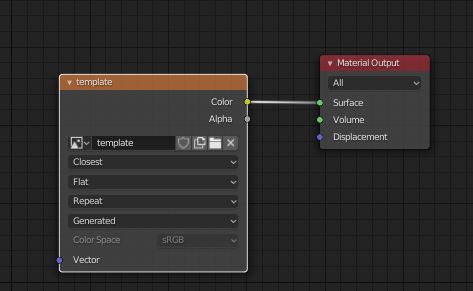
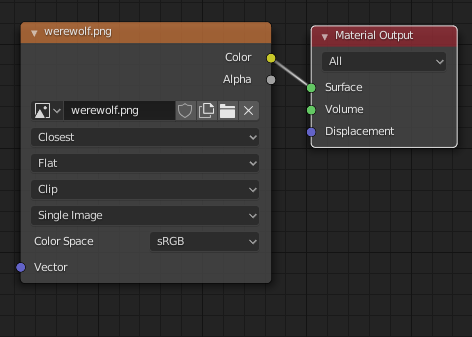
Deployed 1d07a29 with MkDocs version: 1.1.2

diff --git a/user_manual/panels/index.html b/user_manual/panels/index.html
@@ -130,12 +130,39 @@ the plugin.</p>
 <p><strong>Usage</strong></p>
 <ul>
 <li><strong>Toggles mc_mirror</strong> - Toggles <code>mc_mirror</code> property for selected object.
-  Objects that have <code>mc_mirror</code> property create cubes with mirrored UV.</li>
+  Objects that have <code>mc_mirror</code> property will have different UV mapping
+  than the objects without it when you run the <code>Set bedrock UVs</code> operator.</li>
 <li><strong>Set mc_uv_group</strong> - Groups selected object together which affects the
   UV-mapping. Object assigned to the same <code>mc_uv_group</code> is mapped to the same
   spot on the texture if they have the same dimensions.</li>
+</ul>
+<div class="admonition note">
+<p class="admonition-title">Note</p>
+<p>Sometimes when you want to get really compact texture its good to select
+all of the abject and assign them to the same mc_uv_group before running
+the <code>Set bedrock UVs</code> operator. The cubes with the same shape will get
+the same UV (for example if you have symetrical humanoid model than its
+left and right hand will be mapped to the same UV texture space).</p>
+</div>
+<ul>
 <li><strong>Toggle mc_is_bone</strong> - Toggles <code>mc_is_bone</code> property for selected objects.
-  object with this property are exported as bones in the Minecraft model.</li>
+  object with this property are always exported as bones in the Minecraft
+  model. Mcblend usually tries to export most of the meshes as cubes and group
+  them together in some parent object which will become a bone. If you want to
+  mark certain cube as an independent bone than you need to use <code>mc_is_bone</code>
+  property.</li>
+</ul>
+<div class="admonition note">
+<p class="admonition-title">Note</p>
+<p>The best way of using Mcblend is to have one rig for the model parenting
+the meshes to bones of that rig. This allows you to take the advantage
+of useful features like inverse kinematics and also creates a model in
+which its really easy to distinguish which blender object becames what
+in minecraft model. That is - bones will be translated into minecraft
+bones and meshes into cubes. If you add some empties without children
+objects they will become the locators.</p>
+</div>
+<ul>
 <li><strong>Set mc_inflate</strong> - Set the <code>mc_inflate</code> vale for selected objects. This is
   equivalent to setting the inflate value in the Minecraft model. Running this
   operator opens a panel in the bottom left corner of the 3D viewport. You
@@ -146,13 +173,18 @@ the plugin.</p>
 <li><strong>Round dimensions</strong> - Rounds the dimensions of the object to integers.
   This operator is useful for aviding problems with UV-mapping.</li>
 </ul>
+<div class="admonition note">
+<p class="admonition-title">Note</p>
+<p>Its a good habit to always run this operator before exporting the model.
+Models with cubes with non-integer sizes ussualy have issues with UV
+mapping and don't look good. If you want to so some slight tweaks to the
+size of a cube you should use the <code>Set mc_inflate</code> operator.</p>
+</div>
 <h2 id="set-bedrock-uvs-panel">Set bedrock UVs panel</h2>
 <p>This panel is used for creating UV-mapping for the model and generating
 template textures.</p>
 <p><img alt="" src="../../img/set_bedrock_uvs_panel.png" /></p>
 <p><strong>Usage</strong></p>
-<p>By default all of the cubes in the model have the [0, 0] UV-mapping.
-The UV mapping values of each object are stored in <code>mc_uv</code> custom property.</p>
 <p>To perform the UV-mapping fill in the form and press "Set Minecraft
 UVs"</p>
 <ul>
@@ -160,24 +192,31 @@ UVs"</p>
 <li><strong>Texture height</strong> - the texture height property of the Minecraft model.
   If you sent this property to 0 the texture height will be selected
   automatically to fit all textures as tight as possible.</li>
-<li><strong>Move existing mcUv mappings</strong> - this checkbox decides if the cubes that
-  already have assigned UV-mapping values can be moved.</li>
-<li><strong>Move blender UV mappings</strong> - this checkbox decides if blender objects
-  should have their UV-mapping moved to match the Minecraft model.</li>
-<li><strong>Remove old UV maps</strong> - objects in blender can have multiple UV maps but
-  only one of them is visible. Ticking this box causes that old UV-maps are
-  removed when the new one is created.</li>
 <li><strong>Template resolution</strong> - Sets the resolution of the template texture. If you
   set this to 0 then the template texture won't be created. This value
   describes how many pixels on the image is represented by one texture_widht or
   texture_height unit in the model definition. The value 1 gives the standard
   Minecraft texture resolution. Higher values can be used to create "HD"
   textures.</li>
-<li><strong>Set Minecraft UVs</strong> button runs the operator which plans the UV-mapping and
-  optionally creates the template texture.</li>
 </ul>
+<div class="admonition note">
+<p class="admonition-title">Note</p>
+<p>After generating the UV mapping you can still go to the UV editor and
+move everything to your liking. This operator tries to layout the
+UVs of the selected objects on the texture space using the basic
+non-per-face minecraft UV-mapping. If you move the UV in such way that it
+will be impossible to map it in standard minecraft UV-mapping way than
+mcblend will detect that and use per-face UV mapping. Also if you manually
+arrange the shape of the UV to per-face UV-mapping shape than Mcblend will
+detect that and export the model in "minecrafty" way of mapping the UV.
+Don't move individual vertices of the faces on the UV unless you know what
+you're doing. The faces on the UV must remain rectangles or the UV of the
+exported model may have some unexpected shapes.</p>
+</div>
 <h2 id="export-bedrock-model-panel">Export bedrock model panel</h2>
-<p>This panel is used for exporting the models.</p>
+<p>This panel is used for exporting the models. You can set here the name
+and visible bounds of the model. Exported model will automatically add
+the <code>geometry.</code> prefix so you don't need to do that.</p>
 <p><img alt="" src="../../img/export_model_panel.png" /></p>
 <p><strong>Usage</strong></p>
 <ol>
@@ -191,23 +230,41 @@ UVs"</p>
 <p><strong>Usage</strong></p>
 <ol>
 <li>Select all of the objects to export.</li>
-<li>Insert the name of the animation.</li>
-<li>If you want to loop the animation select the "loop" checkbox.</li>
-<li>If you want to use the <code>anim_time_update</code> property of Minecraft animation
-  insert its value to a proper text field. You can leave it blank if you don't
-  want to use it.</li>
-<li>Press the "Export animation" button.</li>
+<li>Fill in the form with the information about the animation.</li>
+<li>
+<p>Press the "Export animation" button.</p>
+</li>
+<li>
+<p><strong>Name</strong> - the name of the animation.</p>
+</li>
+<li><strong>Loop</strong> - if true than the loop property of the animation is also set
+  to true.</li>
+<li><strong>Current frame only</strong> - instead of exporting animation exports the
+  current frame as looped "pose animation".</li>
+<li><strong>anim_time_update</strong> - this is copied to "anim_time_update" property
+  of the minecraft animtion. If you leave this blank the the animation
+  won't use the anim_time_update property.</li>
 </ol>
+<div class="admonition note">
+<p class="admonition-title">Note</p>
+<p>The time of the animation is determined by the time of animation
+that you can set in the timeline. The animations should always start
+at frame 1. Frame 0 should have the model in the reset pose.</p>
+</div>
 <h2 id="import-bedrock-model-panel">Import bedrock model panel</h2>
 <p>This panel is used for importing bedrock models from JSON files.</p>
 <p><img alt="" src="../../img/import_model_panel.png" /></p>
 <p><strong>Usage</strong></p>
 <p>Press the button and use file explorer to find the model you want to import.
 There is additional property in the file explorer which allows you to specify
-the name of the geometry you want to import. Only geometries with <code>.geometry</code>
+the name of the geometry you want to import. Only geometries with <code>geometry.</code>
 prefix in the name are supported. You don't have to write the prefix (it's
 added automatically to the name). If you leave this field empty only the
 first model from the list of geometries will be imported.</p>
+<p>The "Replace bones with empties" changes the way of importing the model.
+If check the box the imported model will use empties instead of armature
+and bones. Both ways of importing model represent the same thing in
+minecraft according to the <a href="../conversion_rules/">conversion rules</a>.</p>
 <p><img alt="" src="../../img/import_model_file_explorer.png" /></p></div>
             </div>
         </div>
@@ -237,7 +294,7 @@ first model from the list of geometries will be imported.</p>
                 </p>
                 <form>
                     <div class="form-group">
-                        <input type="text" class="form-control" placeholder="Search..." id="mkdocs-search-query" title="Type search term here">
+                        <input type="search" class="form-control" placeholder="Search..." id="mkdocs-search-query" title="Type search term here">
                     </div>
                 </form>
                 <div id="mkdocs-search-results"></div>

diff --git a/user_manual/basics/index.html b/user_manual/basics/index.html
@@ -128,16 +128,20 @@ further in the user manual in <a href="../panels/">panels</a> section.</p>
 <h3 id="cuboids-only">Cuboids only</h3>
 <p>Minecraft bedrock edition models support only cuboids (unless you use an
 experimental feature which is not supported yet). You cannot use other
-shapes for your model. Mcblend uses bounding boxes to create cuboids for
-the exported model.</p>
+shapes for your model. Mcblend uses bounding boxes to create cuboids from
+meshes for the exported model. Every cube in a model must be a separate
+mesh. Ideally the mesh should have exactly the same shape as it's bounding box.
+Meshes with other shapes will be aproximated to the bounding box shape or if
+that fails the whole model won't be exported.</p>
 <div class="admonition note">
 <p class="admonition-title">Note</p>
-<p>The best way to avoid problems with invalid meshes is to always use
-blenders "Object mode" for editing the model. Additionally you can enable
-drawing the bounding box in object
+<p>The best way to avoid problems with invalid meshes is to always use the
+"Object mode" for editing the model and always scale the cuboids in their
+local space.</p>
+<p>Additionally you can enable drawing the bounding box in object
 <code>Object properties -&gt; Viewport display -&gt; Bounds</code></p>
 </div>
-<h3 id="wide-angles-in-rotations">Wide angles in rotations</h3>
+<h3 id="wide-angles-in-animations">Wide angles in animations</h3>
 <p>Blender supports multiple rotation modes and uses different types of rotation
 for different kinds of objects. For example rotations of bones in armatures
 use quaternions but meshes use Euler (XYZ) angles. Additionally users can
@@ -148,11 +152,11 @@ direct way to use the Minecraft coordinates system in Blender.</p>
 Internally everything is converted into quaternions and then into Minecraft
 coordinate system when it's needed. The design choice of using quaternions
 internally was motivated by the fact that quaternions help avoiding some
-computation errors. Unfortunately, Quaternions are number system which has
-unique representation for every rotation so you can't distinguish full turn
-from no turn at all.</p>
+computation errors. Unfortunately, Quaternions number system has only one
+unique representation for every rotation orientation so you can't distinguish
+full turn from no turn at all (0° = 360°).</p>
 <p>The consequence of choosing quaternions is that it's impossible to have
-rotation wider than 180 degrees between two keyframes. When an animation is
+rotation wider than 180° between two keyframes. When an animation is
 exported Mcblend translates quaternions into Euler angles and picks the
 rotation which requires as little movement as possible to end up in a new pose.</p>
 <div class="admonition note">
@@ -164,7 +168,7 @@ that don't look right.</p>
 <p>The addon does not allow the usage of names that have dots in it. Everything
 after the first dot in the name of the object is ignored during the conversion.
 You can use dots in the names of the objects which aren't converted into bones
-for the Minecraft model. Conversion rules are described in the
+in exported Minecraft model. Conversion rules are described in the
 <a href="../conversion_rules/">next</a> section of the user manual.</p>
 <h2 id="custom-properties">Custom properties</h2>
 <p>Mcblend uses custom object properties to store some data about the Minecraft
@@ -172,10 +176,14 @@ model:</p>
 <ul>
 <li><code>mc_uv_group</code> - used to group cubes with the same width, depth and height to
   assign same UV-mapping to them.</li>
-<li><code>mc_uv</code> - U and V value of Minecraft UV-mapping.</li>
-<li><code>mc_is_bone</code> - marks an object as a Minecraft bone.</li>
+<li><code>mc_is_bone</code> - marks an object as a Minecraft bone (it's not necessary in
+  most cases).</li>
 <li><code>mc_inflate</code> - the "inflate" value of cube in the Minecraft model.</li>
-<li><code>mc_mirror</code> - marks that the object has the "mirror" property set to true.</li>
+<li><code>mc_mirror</code> - marks that the object has the "mirror" property set to true.
+  This is used for generating the UV. If you manually map the UV in such way
+  that the it has the same shape as mirrored UV of a cube in minecraft model
+  than Mcblend will automatically detect that and add the mirror property to
+  the exported model.</li>
 </ul>
 <p>You can view these properties in <code>Object properties -&gt; Custom properties</code></p>
 <p><img alt="" src="../../img/custom_properties.png" /></p></div>
@@ -207,7 +215,7 @@ model:</p>
                 </p>
                 <form>
                     <div class="form-group">
-                        <input type="text" class="form-control" placeholder="Search..." id="mkdocs-search-query" title="Type search term here">
+                        <input type="search" class="form-control" placeholder="Search..." id="mkdocs-search-query" title="Type search term here">
                     </div>
                 </form>
                 <div id="mkdocs-search-results"></div>

diff --git a/user_manual/tips/index.html b/user_manual/tips/index.html
@@ -166,8 +166,8 @@ Remember to change the "Template resolution" setting a to value greater than
 <p><img alt="" src="../../img/shading_tab.png" /></p>
 <p><strong>3.</strong> Remove the <code>Principled BSDF</code> node and replace it with <code>Image Texture</code> node
 (<code>SHIFT + A</code> and search "Image Texture"). Connect the node to material output
-just like on the image. Set interpolation setting to "Closest" and choose your
-texture under the image setting.</p>
+just like on the image. Set interpolation setting to "Closest", the third
+setting to "Clip"  and choose your to texture under the image setting.</p>
 <p><img alt="" src="../../img/nodes.png" /></p>
 <p><strong>4.</strong> You don't have to create new material for every object. You can
 assign the material you use to other objects in your model. Select all of your
@@ -175,6 +175,11 @@ objects and make sure that the object that uses your material is active.
 Go to <code>Material Properties</code> right click on the material and select "Copy to
 selected".</p>
 <p><img alt="" src="../../img/copy_material_to_selected.png" /></p>
+<p>If you want to have a material that supports transparency than the nodes in
+the shading editor will need to have more complicated layout:</p>
+<p><img alt="" src="../../img/nodes_advanced.png" /></p>
+<p>You will also have to enable the transparency settings in the material configuration:</p>
+<p><img alt="" src="../../img/transparency_setting.png" /></p>
 <h2 id="multiple-animations">Multiple animations</h2>
 <p>If you want to have multiple animations in your project you can copy the scene
 with your finished model and animate it there. Every scene has its
@@ -227,7 +232,7 @@ pressing <code>CTRL + F2</code> (default key-bind setting).</p></div>
                 </p>
                 <form>
                     <div class="form-group">
-                        <input type="text" class="form-control" placeholder="Search..." id="mkdocs-search-query" title="Type search term here">
+                        <input type="search" class="form-control" placeholder="Search..." id="mkdocs-search-query" title="Type search term here">
                     </div>
                 </form>
                 <div id="mkdocs-search-results"></div>

diff --git a/index.html b/index.html
@@ -121,13 +121,12 @@
                     <div class="col-md-9" role="main">
 
 <h1 id="overview">Overview</h1>
-<p>Blender addon for working with Minecraft models.</p>
+<p>Blender addon for working with Minecraft Bedrock Edition models.</p>
 <h2 id="features">Features</h2>
 <ul>
 <li>Exporting models for Minecraft bedrock edition. Custom Minecraft model
   properties like <code>mirror</code>, <code>inflate</code> or <code>locator</code> are supported.</li>
-<li>Exporting animations for Minecraft bedrock edition. Support for Minecraft
-  property <code>anim_time_update</code>.</li>
+<li>Exporting keyframe animations for Minecraft bedrock edition. Support for Minecraft property <code>anim_time_update</code>.</li>
 <li>Importing models from Minecraft bedrock edition.</li>
 <li>Generating the UV maps and the template textures.</li>
 <li>Easy way to create animations that would be tedious to do thanks to
@@ -152,8 +151,7 @@ page: <a href="https://github.com/Nusiq/mcblend/releases">https://github.com/Nus
 </ol>
 <h1 id="more">More</h1>
 <p>You can learn about the features of the project from the
-<a href="./user_manual/basics">user manual</a> if you want to expand this project
-read the <a href="./code_documentation">code documentation</a>.</p></div>
+<a href="./user_manual/basics">user manual</a>.</p></div>
             </div>
         </div>
 
@@ -182,7 +180,7 @@ read the <a href="./code_documentation">code documentation</a>.</p></div>
                 </p>
                 <form>
                     <div class="form-group">
-                        <input type="text" class="form-control" placeholder="Search..." id="mkdocs-search-query" title="Type search term here">
+                        <input type="search" class="form-control" placeholder="Search..." id="mkdocs-search-query" title="Type search term here">
                     </div>
                 </form>
                 <div id="mkdocs-search-results"></div>
@@ -236,6 +234,6 @@ read the <a href="./code_documentation">code documentation</a>.</p></div>
 </html>
 
 <!--
-MkDocs version : 1.1
-Build Date UTC : 2020-05-10 12:11:33
+MkDocs version : 1.1.2
+Build Date UTC : 2020-08-18 17:44:34.000622+00:00
 -->

diff --git a/user_manual/conversion_rules/index.html b/user_manual/conversion_rules/index.html
@@ -117,7 +117,7 @@ unexpected.</p>
   a bone or a bone with cube respectively.</li>
 <li>A bone is converted into a bone unless it has no children and no
   parents. In this case it isn't converted at all. This behavior is to prevent
-  the conversions of inverse kinematics bones.</li>
+  the unnecessary exporting of inverse kinematics bones.</li>
 <li>An empty becomes a bone unless it has a parent but no children. In this case
   it creates a locator.</li>
 <li>Mesh without parent becomes a bone with a cube inside it. Mesh with a parent
@@ -191,7 +191,7 @@ unexpected.</p>
                 </p>
                 <form>
                     <div class="form-group">
-                        <input type="text" class="form-control" placeholder="Search..." id="mkdocs-search-query" title="Type search term here">
+                        <input type="search" class="form-control" placeholder="Search..." id="mkdocs-search-query" title="Type search term here">
                     </div>
                 </form>
                 <div id="mkdocs-search-results"></div>

diff --git a/search/main.js b/search/main.js
@@ -43,7 +43,7 @@ function displayResults (results) {
 
 function doSearch () {
   var query = document.getElementById('mkdocs-search-query').value;
-  if (query.length > 2) {
+  if (query.length > min_search_length) {
     if (!window.Worker) {
       displayResults(search(query));
     } else {
@@ -73,6 +73,8 @@ function onWorkerMessage (e) {
   } else if (e.data.results) {
     var results = e.data.results;
     displayResults(results);
+  } else if (e.data.config) {
+    min_search_length = e.data.config.min_search_length-1;
   }
 }
 

diff --git a/search/worker.js b/search/worker.js
@@ -58,6 +58,7 @@ function onScriptsLoaded () {
   if (data.config && data.config.separator && data.config.separator.length) {
     lunr.tokenizer.separator = new RegExp(data.config.separator);
   }
+
   if (data.index) {
     index = lunr.Index.load(data.index);
     data.docs.forEach(function (doc) {
@@ -84,6 +85,7 @@ function onScriptsLoaded () {
     console.log('Lunr index built, search ready');
   }
   allowSearch = true;
+  postMessage({config: data.config});
   postMessage({allowSearch: allowSearch});
 }
 

diff --git a/404.html b/404.html
@@ -109,7 +109,7 @@
                 </p>
                 <form>
                     <div class="form-group">
-                        <input type="text" class="form-control" placeholder="Search..." id="mkdocs-search-query" title="Type search term here">
+                        <input type="search" class="form-control" placeholder="Search..." id="mkdocs-search-query" title="Type search term here">
                     </div>
                 </form>
                 <div id="mkdocs-search-results"></div>
